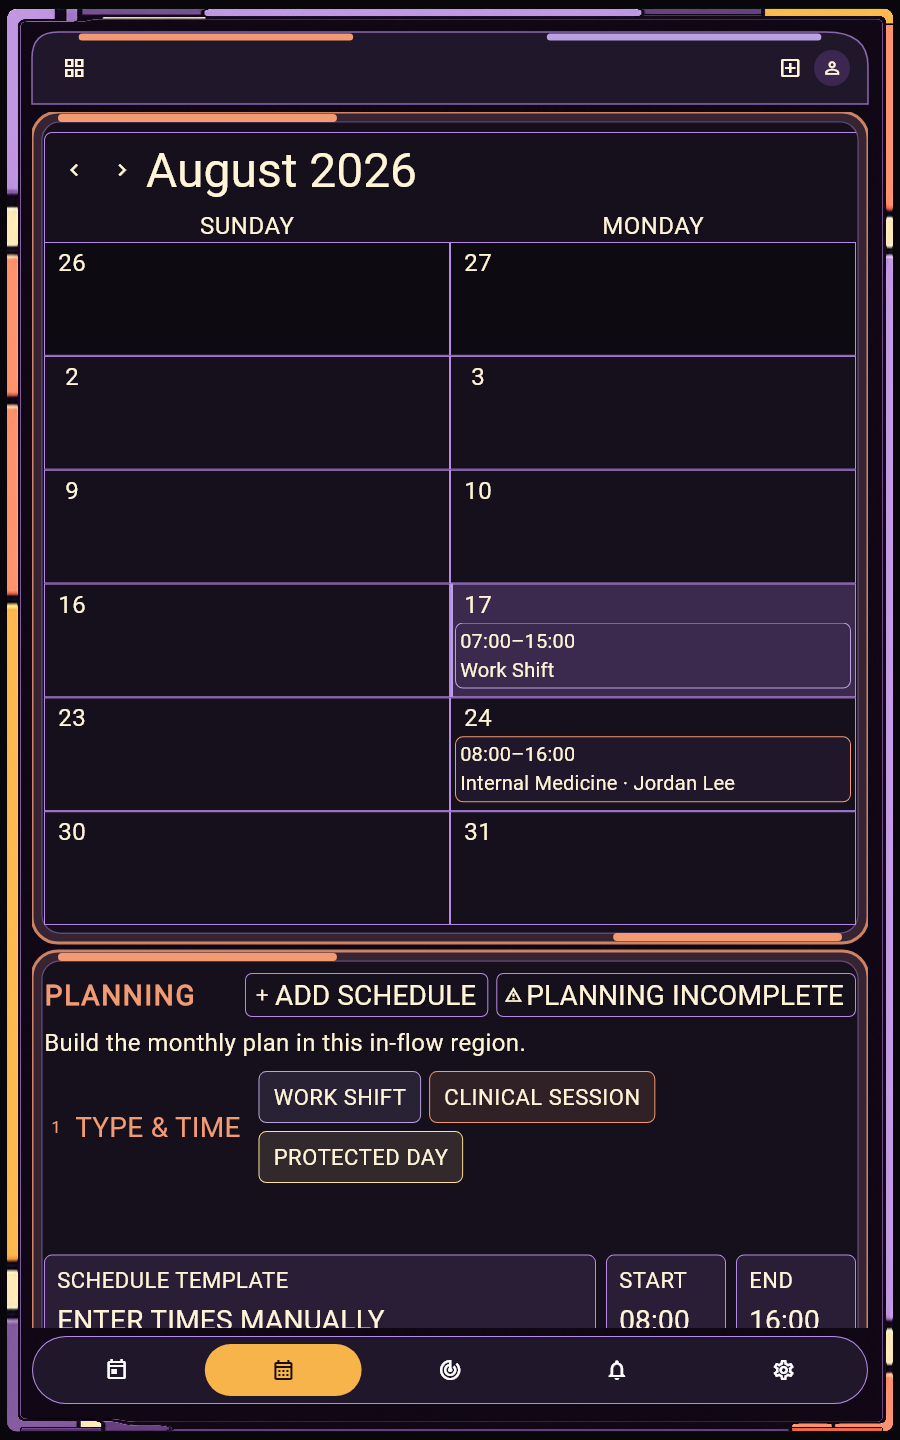
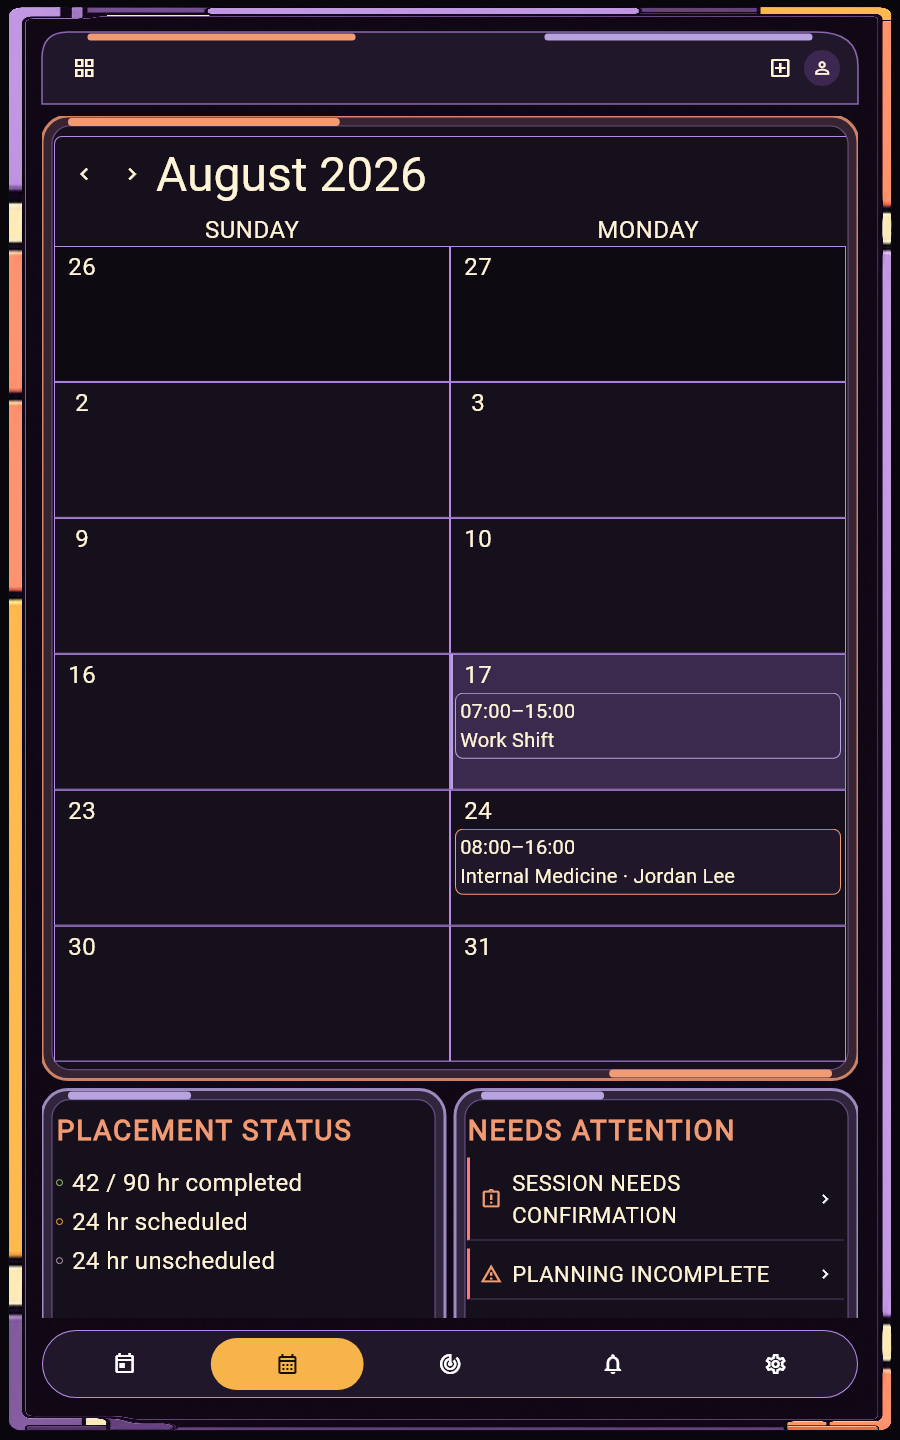
Address Federation Classic review findings (#133)

diff --git a/packages/clinical_calendar_presentation/lib/src/federation_classic_shell.dart b/packages/clinical_calendar_presentation/lib/src/federation_classic_shell.dart
@@ -191,9 +191,9 @@ final class FederationClassicApplicationShell extends StatelessWidget {
     backgroundColor: const Color(0xFF09070C),
     body: SafeArea(
       child: FederationClassicNineSliceFrame(
-        chromeInsets: const EdgeInsets.fromLTRB(24, 28, 24, 30),
+        chromeInsets: const EdgeInsets.fromLTRB(30, 24, 30, 34),
         child: Padding(
-          padding: const EdgeInsets.fromLTRB(8, 4, 8, 6),
+          padding: const EdgeInsets.fromLTRB(12, 8, 12, 8),
           child: Column(
             children: [
               _FederationClassicCommandCrown(
@@ -204,7 +204,7 @@ final class FederationClassicApplicationShell extends StatelessWidget {
                 profileAvatar: slots.profileAvatar,
                 compact: true,
               ),
-              const SizedBox(height: 8),
+              const SizedBox(height: 12),
               Expanded(
                 child: LayoutBuilder(
                   builder: (context, constraints) {
@@ -215,13 +215,13 @@ final class FederationClassicApplicationShell extends StatelessWidget {
                       primary: true,
                       child: SizedBox(
                         height: enlargedText
-                            ? constraints.maxHeight * 1.38
-                            : constraints.maxHeight,
+                            ? constraints.maxHeight * 1.62
+                            : constraints.maxHeight * 1.08,
                         child: Column(
                           crossAxisAlignment: CrossAxisAlignment.stretch,
                           children: [
                             Expanded(
-                              flex: 6,
+                              flex: 7,
                               child: _FederationClassicConsoleBay(
                                 key: const Key(
                                   'federation-classic-calendar-bay',
@@ -233,24 +233,9 @@ final class FederationClassicApplicationShell extends StatelessWidget {
                                 ),
                               ),
                             ),
-                            const SizedBox(height: 8),
+                            const SizedBox(height: 10),
                             Expanded(
-                              flex: 3,
-                              child: _FederationClassicConsoleBay(
-                                key: const Key(
-                                  'federation-classic-planning-bay',
-                                ),
-                                accent: _FederationClassicBayAccent.salmon,
-                                shape: _FederationClassicBayShape.planning,
-                                child: VariantFPlanningBayMode(
-                                  expandedByDefault: false,
-                                  child: slots.planningRegion,
-                                ),
-                              ),
-                            ),
-                            const SizedBox(height: 8),
-                            Expanded(
-                              flex: 3,
+                              flex: 4,
                               child: Row(
                                 crossAxisAlignment: CrossAxisAlignment.stretch,
                                 children: [
@@ -265,7 +250,7 @@ final class FederationClassicApplicationShell extends StatelessWidget {
                                       child: slots.mobilePlacementSummary,
                                     ),
                                   ),
-                                  const SizedBox(width: 8),
+                                  const SizedBox(width: 10),
                                   Expanded(
                                     child: _FederationClassicConsoleBay(
                                       key: const Key(
@@ -279,6 +264,21 @@ final class FederationClassicApplicationShell extends StatelessWidget {
                                 ],
                               ),
                             ),
+                            const SizedBox(height: 10),
+                            Expanded(
+                              flex: 3,
+                              child: _FederationClassicConsoleBay(
+                                key: const Key(
+                                  'federation-classic-planning-bay',
+                                ),
+                                accent: _FederationClassicBayAccent.salmon,
+                                shape: _FederationClassicBayShape.planning,
+                                child: VariantFPlanningBayMode(
+                                  expandedByDefault: false,
+                                  child: slots.planningRegion,
+                                ),
+                              ),
+                            ),
                           ],
                         ),
                       ),
@@ -286,7 +286,7 @@ final class FederationClassicApplicationShell extends StatelessWidget {
                   },
                 ),
               ),
-              const SizedBox(height: 8),
+              const SizedBox(height: 12),
               _FederationClassicNavigationDeck(
                 selectedIndex: mobileIndex,
                 onOpenDestination: onOpenDestination,

diff --git a/packages/clinical_calendar_presentation/test/theme_bundle_test.dart b/packages/clinical_calendar_presentation/test/theme_bundle_test.dart
@@ -215,6 +215,47 @@ void main() {
   });
 
   test(
+    'Federation Classic rebuild leaves every other renderer path unchanged',
+    () {
+      final cases = <(ClinicalCalendarThemeBundle, String, Type)>[
+        (
+          bundle,
+          'variant-f-existing-responsive-shell',
+          ResponsiveApplicationShell,
+        ),
+        (
+          graphite,
+          'graphite-additive-responsive-shell-v1',
+          GraphiteApplicationShell,
+        ),
+        (
+          federation2399,
+          'federation-2399-owned-responsive-console-v3',
+          Federation2399ApplicationShell,
+        ),
+      ];
+
+      for (final (bundle, rendererId, shellType) in cases) {
+        expect(bundle.shellRenderer.rendererId, rendererId);
+        expect(
+          bundle.shellRenderer
+              .build(
+                slots: _slots,
+                environmentName: 'TEST',
+                onOpenMenu: _noop,
+                onOpenDestination: _ignoreDestination,
+                onOpenAttention: _noop,
+                onAddSchedule: _noop,
+              )
+              .runtimeType,
+          shellType,
+          reason: '${bundle.id} must retain its production renderer path',
+        );
+      }
+    },
+  );
+
+  test(
     'Enhanced is an overlay and Standard round trips exactly for registered bundles',
     () {
       for (final themedBundle in const <ClinicalCalendarThemeBundle>[
@@ -664,6 +705,8 @@ void main() {
     await tester.tap(find.byTooltip('Open menu'));
     await tester.tap(find.byTooltip('Add schedule'));
     await tester.tap(find.byTooltip('Help'));
+    await tester.tap(find.byKey(const Key('federation-classic-navigation-0')));
+    await tester.tap(find.byKey(const Key('federation-classic-navigation-1')));
     await tester.tap(find.byKey(const Key('federation-classic-navigation-2')));
     await tester.tap(find.byKey(const Key('federation-classic-navigation-3')));
     await tester.tap(find.byKey(const Key('federation-classic-navigation-4')));
@@ -673,6 +716,8 @@ void main() {
     expect(attentionCount, 1);
     expect(destinations, [
       ClinicalCalendarDestination.help,
+      ClinicalCalendarDestination.calendar,
+      ClinicalCalendarDestination.calendar,
       ClinicalCalendarDestination.clinicalPlacements,
       ClinicalCalendarDestination.settings,
     ]);
@@ -721,10 +766,11 @@ void main() {
     final navigation = tester.getRect(
       find.byKey(const Key('federation-classic-bottom-navigation')),
     );
-    expect(calendar.top, lessThan(planning.top));
-    expect(planning.top, lessThan(placements.top));
+    expect(calendar.top, lessThan(placements.top));
     expect(placements.top, insight.top);
     expect(placements.right, lessThan(insight.left));
+    expect(placements.top, lessThan(planning.top));
+    expect(navigation.bottom, lessThanOrEqualTo(1440));
     expect(navigation.top, greaterThan(calendar.top));
     expect(
       find.byKey(const Key('federation-classic-portrait-scroll')),

diff --git a/docs/themes/acceptance/proofs/federation-classic-v2/README.md b/docs/themes/acceptance/proofs/federation-classic-v2/README.md
@@ -41,8 +41,8 @@ is theme-local.
 9d7de52026ffe05e7bca073693a65be502afc74c7d805a28005e56d2c1877a14  approved-concept-landscape.png
 91dd3ecdafa725de0843c65a043b42142f237a490445ab04ea1ccf440d4ea132  landscape-concept-vs-runtime.png
 6257914284bf2dfc37a318830b3bd278db65b9752c8acc04a29b2e0b9c27506b  runtime-landscape-1586x992.png
-c4bd5eee4a5c330e53451ab2b1fe706a027513f48c13b020414d7f1cc2c28561  runtime-portrait-200-percent-900x1440.png
-dba16c57918902953870c48453f5a60e6ba889c40ec441aa38e3d6bdf6d3de69  runtime-portrait-900x1440.png
+9ca6b1fc2132d0a4c468ef2218774fc4ccb42c06d24e8b2abe3641dae97693ec  runtime-portrait-200-percent-900x1440.png
+e98cfdf5147a490613fbea268be169f0b4c08c0465df34f4049f0fcd2bf49b86  runtime-portrait-900x1440.png
 ```
 
 ## Physical Android-tablet acceptance
